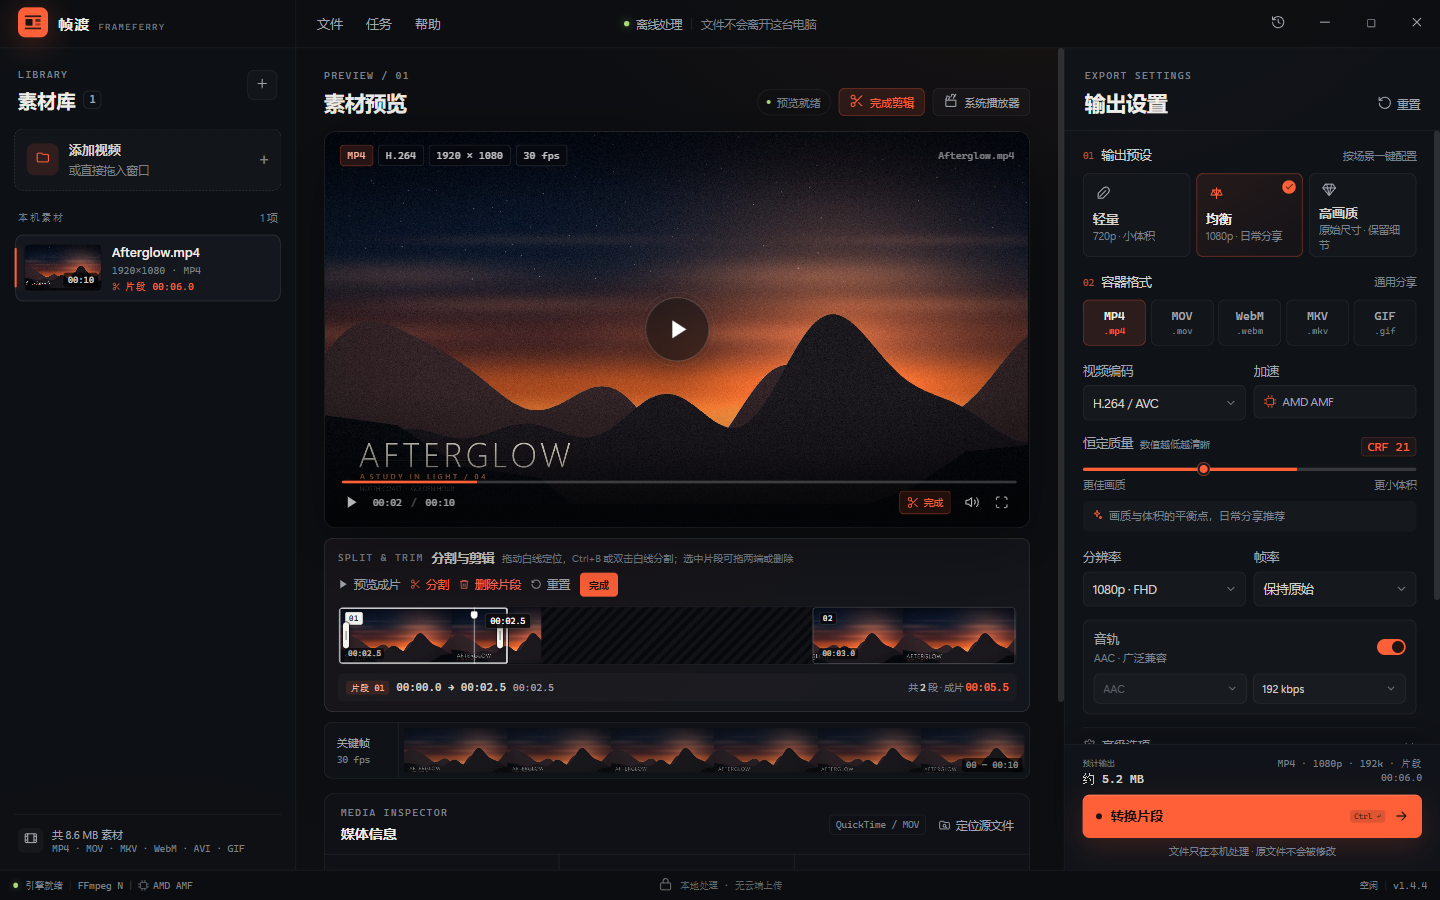
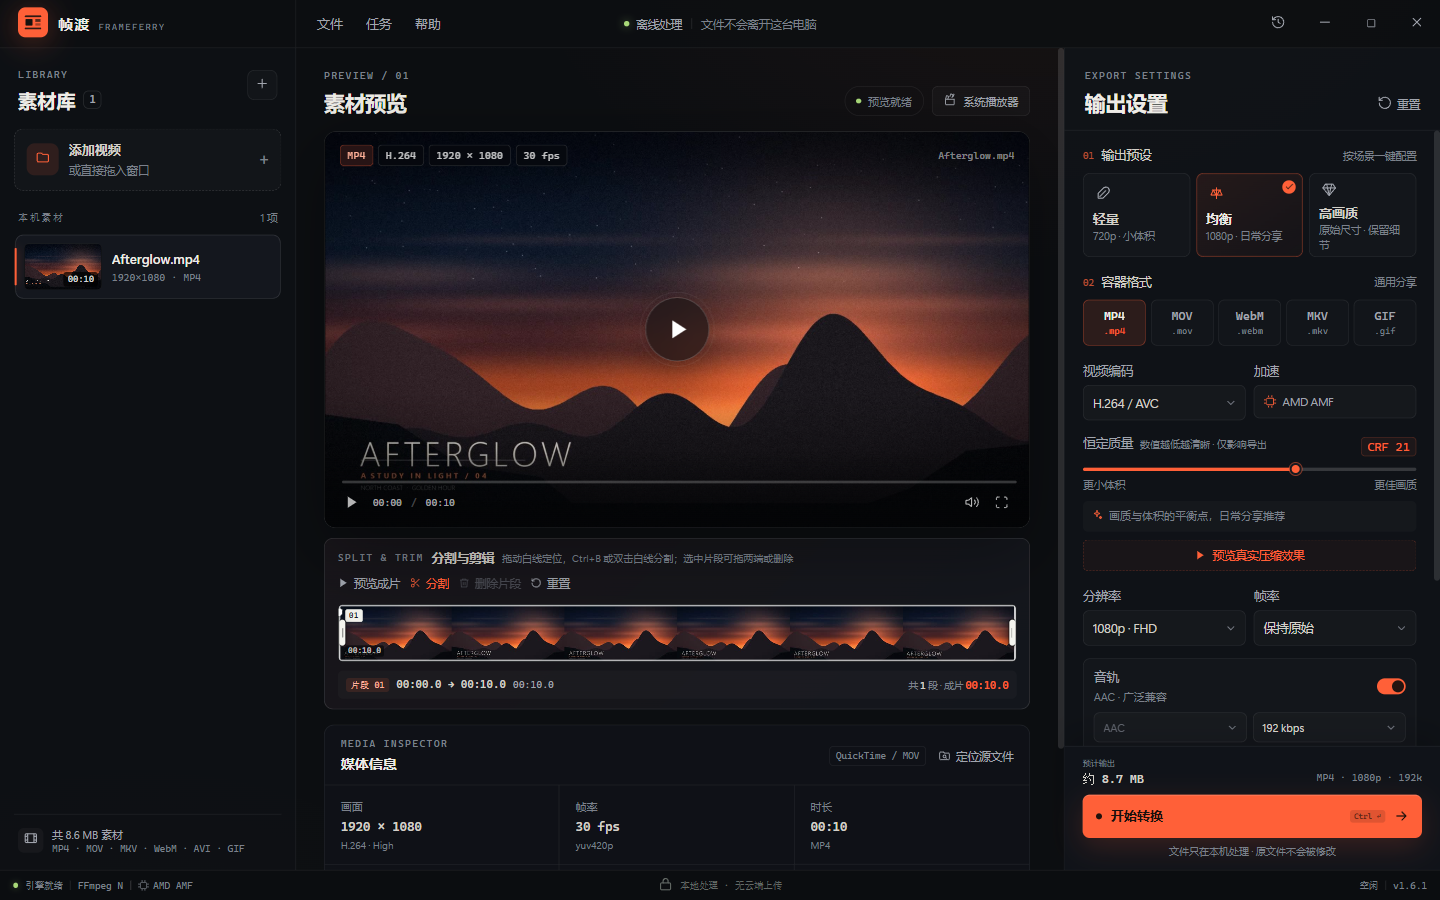
fix: 片段手柄贴合两端边缘
白色圆角手柄移到片段左右外沿，保留握持线和拖动气泡。版本提升到 v1.6.1。

diff --git a/renderer/styles.css b/renderer/styles.css
@@ -4512,3 +4512,28 @@ input:focus-visible {
   background: #fff;
   box-shadow: 0 1px 4px rgba(0, 0, 0, 0.5);
 }
+
+/* Handles sit flush against the selected clip edges, like a bracket. */
+
+.clip-handle-start::before {
+  left: 0;
+  right: auto;
+  transform: translateY(-50%);
+}
+
+.clip-handle-end::before {
+  left: auto;
+  right: 0;
+  transform: translateY(-50%);
+}
+
+.clip-handle-start::after {
+  left: 3px;
+  transform: translateY(-50%);
+}
+
+.clip-handle-end::after {
+  left: auto;
+  right: 3px;
+  transform: translateY(-50%);
+}

diff --git a/docs/TEST_REPORT.md b/docs/TEST_REPORT.md
@@ -131,6 +131,7 @@
 | 预览头部控件 | 三个控件均为 30px 高、11px 字号；宽度随文字自适应（79/65/98px） |
 | 默认剪辑时间轴 | 打开素材后时间轴直接显示；页面不再有「剪辑」入口和「画面缩略」条；Ctrl+B 可直接分割 |
 | 时间轴播放头 | 播放时白线随进度移动；点击轨道暂停并跳转，主预览时间同步 |
+| 手柄贴边 | 片段左边界 x=338.33，手柄 x=339；右边界 x=1015.67，手柄 x=1015；两端贴合 |
 | 分割与删除 MP4 | 在 3s、7s 分割后删除中间段，输出 6.000s，音画均保留 |
 | 分割片段再裁剪 | 把首段出点从 3.0s 拖到 2.5s，输出 5.500s |
 | 分割后 GIF | 保留 0–3s / 7–10s，输出 75 帧 / 6s / 全部 80ms |
